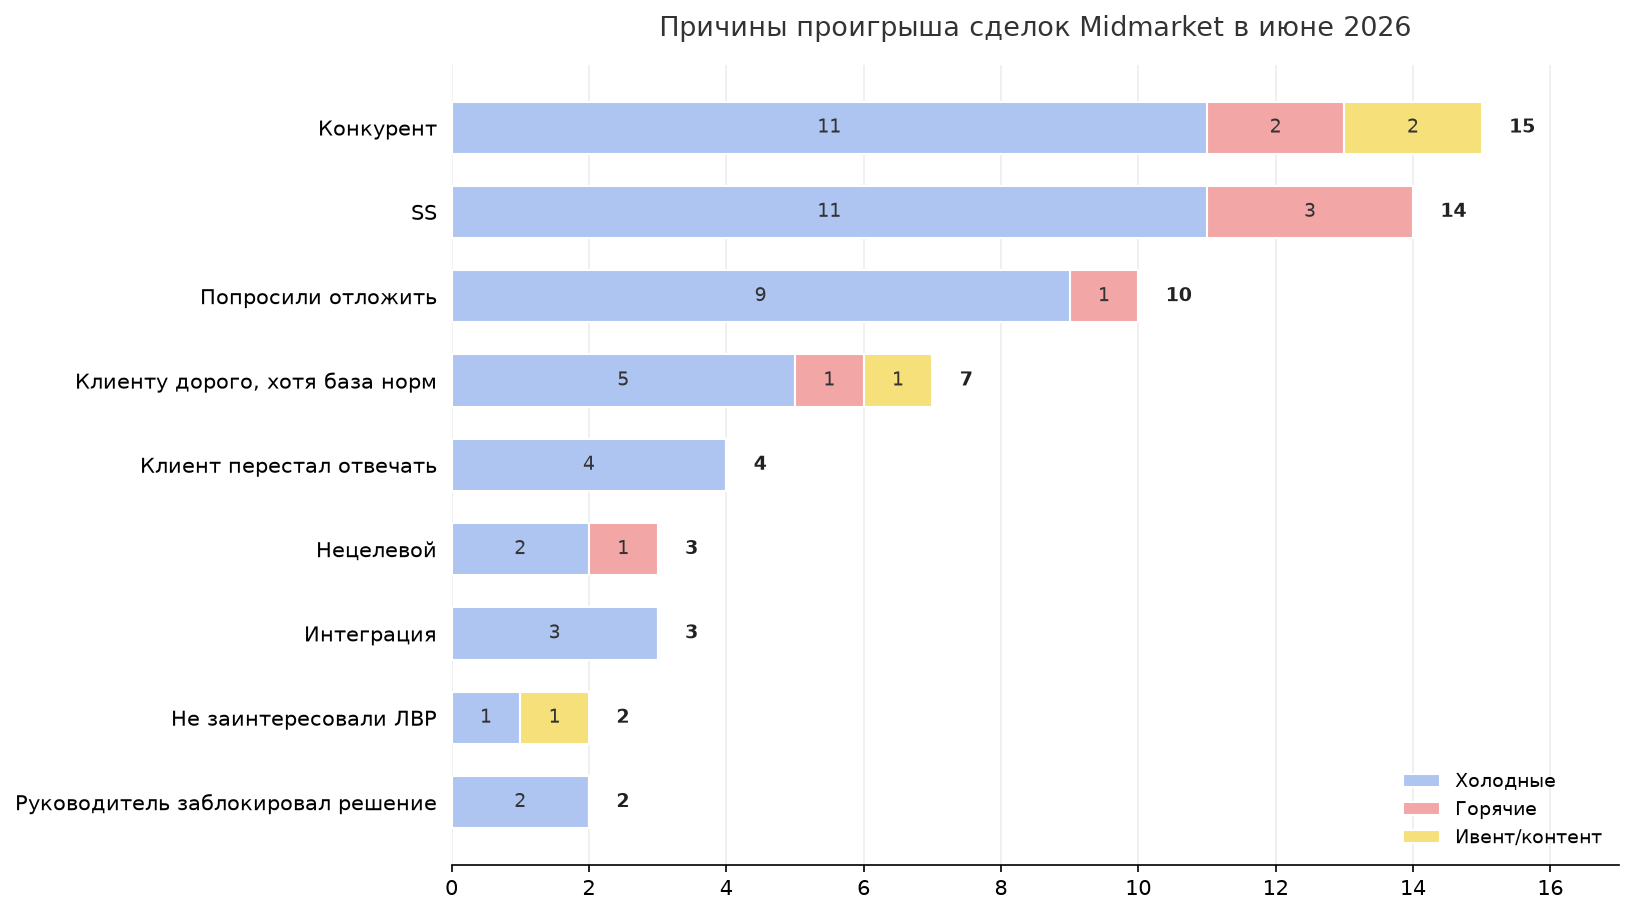
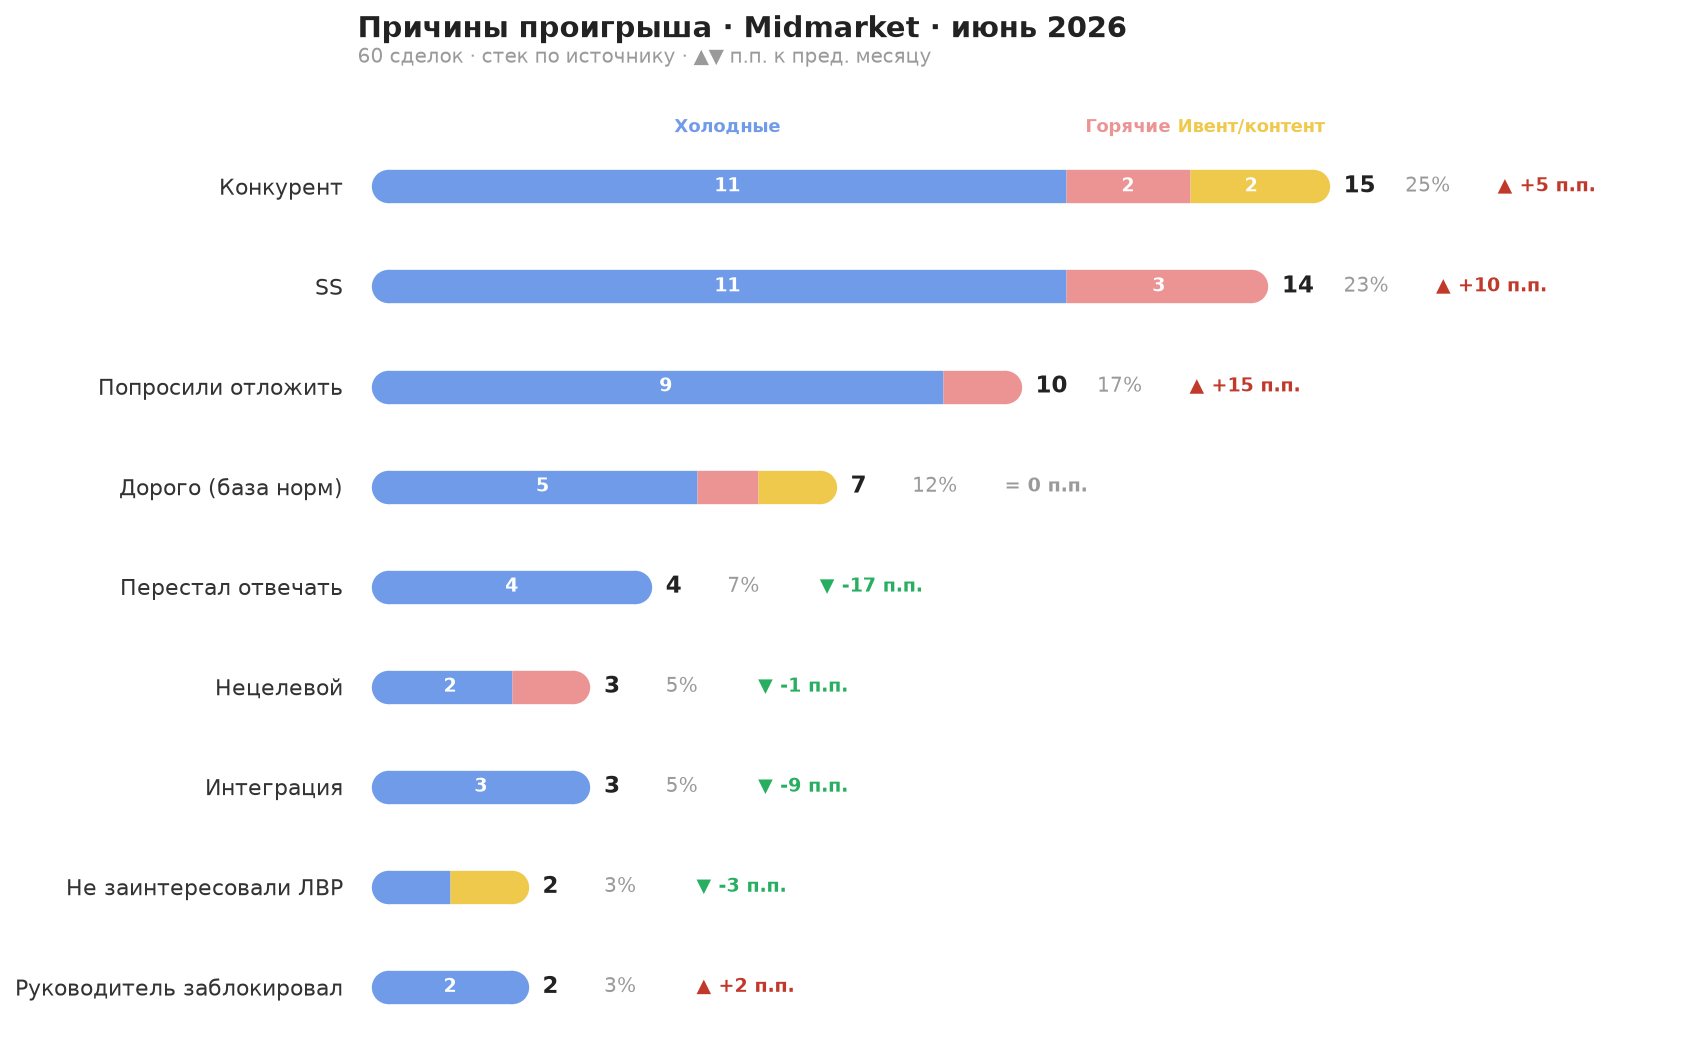
Skill: digest (text template + parameterized chart) for any month
- scripts/digest_chart.py: reusable variant-C chart (source stack + rounded bars +
  pp-delta vs prev month) via CLI args
- scripts/dist_from_classifications.py: build prev-month distribution for the delta
- SKILL.md: '## Дайджест: текст + график' — chart commands + text template/structure
- output/june_2026_digest.md aligned to the template; June chart regenerated via
  the generalized script

https://claude.ai/code/session_01LbKBMorYebTJqJ9qvnVc6G

diff --git a/scripts/digest_chart.py b/scripts/digest_chart.py
@@ -1,0 +1,80 @@
+#!/usr/bin/env python3
+"""
+Дайджест-график (вариант C): горизонтальный стек по источнику, скруглённые бары,
+доля % и дельта к предыдущему месяцу в п.п.
+
+Usage:
+  python scripts/digest_chart.py <classifications.json> <deals_dump.json> \
+         <prev_dist.json|-> "<Заголовок месяца>" <out.png>
+
+- classifications.json: {deal_id: {real_reason, detail, rationale, confidence}}
+- deals_dump.json: сырые сделки get_deals (для источника). Можно "-" — тогда всё Холодные.
+- prev_dist.json: {total, counts} прошлого месяца (scripts/dist_from_classifications.py).
+  "-" — дельта не показывается.
+"""
+import sys, json, collections
+import matplotlib; matplotlib.use("Agg")
+import matplotlib.pyplot as plt
+
+clsf, dump, prev, title, out = sys.argv[1:6]
+cls=json.load(open(clsf))
+det={k:v for k,v in cls.items() if v["real_reason"]!="Не определено"}
+N=len(det)
+cat=collections.Counter(v["real_reason"] for v in det.values())
+
+# источник -> корзина (пусто/прочее -> Холодные, правило заказчика)
+SRC={56:"Холодные",58:"Горячие",63:"Ивент/контент",3977:"Ивент/контент"}
+srcmap={}
+if dump!="-":
+    for d in json.load(open(dump))["data"]:
+        sid=(d.get("custom_fields") or {}).get("af70f9391eeba6e8849e5de4bf671c05dfa80a33")
+        srcmap[d["id"]]=SRC.get(sid,"Холодные")
+ct=collections.defaultdict(lambda: collections.Counter())
+for k,v in det.items(): ct[v["real_reason"]][srcmap.get(int(k),"Холодные")]+=1
+
+prevd=None
+if prev!="-":
+    prevd=json.load(open(prev))
+
+SHORT={"Клиенту дорого, хотя база норм":"Дорого (база норм)",
+       "Руководитель заблокировал решение":"Руководитель заблокировал",
+       "Клиент перестал отвечать":"Перестал отвечать",
+       "Не заинтересовали гендира на первой встрече":"Не заинтересовали гендира"}
+order=["Холодные","Горячие","Ивент/контент"]
+COL={"Холодные":"#6f9be8","Горячие":"#ec9393","Ивент/контент":"#efc94c"}
+cats=sorted(cat, key=lambda c: cat[c])   # asc -> biggest on top
+LW=16
+
+fig,ax=plt.subplots(figsize=(11.5, max(3.2, 0.62*len(cats)+1.6)))
+for i,c in enumerate(cats):
+    segs=[(s,ct[c][s]) for s in order if ct[c][s]>0] or [("Холодные",cat[c])]
+    t=cat[c]
+    ax.plot(0,i,marker="o",markersize=LW,color=COL[segs[0][0]],zorder=2,markeredgewidth=0)
+    ax.plot(t,i,marker="o",markersize=LW,color=COL[segs[-1][0]],zorder=2,markeredgewidth=0)
+    left=0
+    for s,v in segs:
+        ax.plot([left,left+v],[i,i],lw=LW,solid_capstyle="butt",color=COL[s],zorder=3)
+        if v>=2: ax.text(left+v/2,i,str(v),va="center",ha="center",fontsize=9,color="white",fontweight="bold",zorder=4)
+        left+=v
+    jsh=round(100*t/N)
+    ax.text(t+0.5,i,f"{t}",va="center",ha="left",fontsize=11,fontweight="bold",color="#222",zorder=4)
+    ax.text(t+1.5,i,f"{jsh}%",va="center",ha="left",fontsize=9.5,color="#9a9a9a",zorder=4)
+    if prevd:
+        msh=round(100*prevd["counts"].get(c,0)/prevd["total"]) if prevd["total"] else 0
+        d=jsh-msh
+        dt,dc=(f"▲ +{d} п.п.","#c0392b") if d>0 else (f"▼ {d} п.п.","#27ae60") if d<0 else ("= 0 п.п.","#9a9a9a")
+        ax.text(t+3.0,i,dt,va="center",ha="left",fontsize=9,color=dc,fontweight="bold",zorder=4)
+# подписи источников над верхним баром
+top=len(cats)-1; l=0
+for s in order:
+    v=ct[cats[top]][s]
+    if v>0: ax.text(l+v/2,top+0.5,s,ha="center",va="bottom",fontsize=8.5,color=COL[s],fontweight="bold")
+    l+=v
+ax.set_yticks(range(len(cats))); ax.set_yticklabels([SHORT.get(c,c) for c in cats],fontsize=10.5,color="#333")
+ax.set_ylim(-0.6,len(cats)-0.05); ax.set_xlim(-0.5, max(cat.values())+6); ax.set_xticks([]); ax.tick_params(left=False)
+for s in ax.spines.values(): s.set_visible(False)
+ax.set_title(title,fontsize=14,fontweight="bold",color="#222",loc="left",pad=26)
+sub=f"{N} сделок · стек по источнику" + (" · ▲▼ п.п. к пред. месяцу" if prevd else "")
+ax.annotate(sub,(0,1.03),xycoords="axes fraction",fontsize=9.5,color="#9a9a9a")
+plt.tight_layout(); plt.savefig(out,dpi=150,bbox_inches="tight")
+print("saved",out)

diff --git a/scripts/dist_from_classifications.py b/scripts/dist_from_classifications.py
@@ -1,0 +1,10 @@
+#!/usr/bin/env python3
+"""Свести распределение причин по classifications.json -> {total, counts} для дельты.
+Usage: python scripts/dist_from_classifications.py classifications.json dist.json
+Считает только определённые причины (без 'Не определено')."""
+import sys, json, collections
+cls=json.load(open(sys.argv[1]))
+det=[v["real_reason"] for v in cls.values() if v.get("real_reason")!="Не определено"]
+c=collections.Counter(det)
+json.dump({"total":len(det),"counts":dict(c)}, open(sys.argv[2],"w"), ensure_ascii=False, indent=1)
+print(f"{len(det)} deals -> {sys.argv[2]}")

diff --git a/output/june_2026_digest.md b/output/june_2026_digest.md
@@ -1,13 +1,25 @@
-📊 Проигрыши Midmarket · июнь. 61 сделка. Структура сместилась с «клиент пропал» на «просят отложить» и мелкий/нецелевой сегмент. Хорошая новость: клиенты реже отваливаются молча и реже упираются в интеграцию. Риск: почти треть проигрышей — не наша ЦА, это вопрос к квалификации на входе, а не к качеству продаж.
+📊 Дайджест по 61 проигранной в Midmarket сделке в июне (после чистки 7 дублей). По 60 причина определена, 1 — на ручной проверке (проигрыш после встречи).
 
-🥇 Конкурент — 15 (25%, ▲+5 п.п.), 1 место. Чаще всего клиент остаётся на своём или строит сам (4) либо сидит на Премиум Бонусе (2); прочие вендоры — по 1. Нужен battlecard «почему не строить инхаус».
+Главное (динамика к маю):
+• Чаще стали просить отложить общение — «Попросили отложить» 10 (17%), ▲ +15 п.п.: переносят на осень/2027, «не сезон».
+• Реже клиенты пропадают — «Клиент перестал отвечать» 4 (7%), ▼ -17 п.п. (в мае это была причина №1).
+• Реже упираемся в интеграцию / нехватку ресурса на неё — «Интеграция» 3 (5%), ▼ -9 п.п.
+• На 1 месте — конкурент: 15 (25%), ▲ +5 п.п.
 
-⏸ Просят отложить — 10 (17%, ▲+15 п.п.). Это не отказ, а пауза (осень/2027, «не сезон»). Нужен регламент реактивации, а не списание в проигрыш.
+Каким конкурентам проигрываем (15)
+Своя разработка / делают сами — 4 (Chatium+ИИ-агенты, 1С-Фитнес, самописная CRM+amoCRM, «уже реализуют сами»)
+Премиум Бонус — 2
+По 1 — Maxma, RetailCRM, Aurora, Loymax, Remarked, outsource.store, iiko, SaleBot, «другое решение»
 
-🔻 Реже пропадают и реже блокирует интеграция. «Перестал отвечать» — 7% (▼-17 п.п., был №1 в мае), «Интеграция» — 5% (▼-9 п.п.). Из недостающих модулей всплыли MobiFitness (закрытый API) и Киноплан.
+По интеграции (3)
+Нет готового модуля: MobiFitness (закрытый API), Киноплан (бронирование билетов)
+Переезд: переход на новую ERP
 
-🧩 Мелкий/нецелевой — 28% (SS 14, ▲+10 п.п. + Нецелевой 3: франшизы, маркетплейсы, не тот уровень). Ужесточаем квалификацию до встречи.
+Клиенту дорого / бюджет (7)
+Урезали/заморозили бюджеты, «не окупаемся даже на 120к с НДС», нет бюджета на интеграцию, малыши не тянут 150к/мес.
 
-💰 Дорого/бюджет — 7 (12%). Урезали бюджеты, «не окупаемся», малыши не тянут 150к/мес.
+Мелкий / нецелевой сегмент
+SS — 14 (23%), ▲ +10 п.п. · Нецелевой — 3 (франшиза, «не целевые», не тот уровень) · Вместе «не наш сегмент»: 17 (28%)
 
-🎯 что важно: дожимать паузы по регламенту (их стало больше), фильтровать нецелёвку на входе (28% — не наш сегмент), сделать battlecard против «сделаем сами». (SS — self-service/мелкая база; п.п. — процентные пункты доли; 7 дублей исключены, 1 сделка на ручной проверке.)
+Остальное
+Не заинтересовали ЛВР — 2 · Руководитель заблокировал — 2 (собственница не согласовала; тугой ЛПР) · Причина не определена — 1 (сделка 368136 — нужна ручная проверка)

diff --git a/.claude/skills/lost-reasons/SKILL.md b/.claude/skills/lost-reasons/SKILL.md
@@ -79,6 +79,58 @@ description: >-
 Отдай `output/result.xlsx` пользователю (SendUserFile). При наличии эталонной колонки
 «Реальная причина» — посчитай и приведи точность.
 
+## Дайджест: текст + график (для Slack)
+
+Когда просят «дайджест»/«разбери проигрыши» — помимо xlsx готовим текстовую выжимку и
+график.
+
+### График
+```
+python scripts/dist_from_classifications.py <ПРОШЛЫЙ_МЕСЯЦ>_classifications.json data/prev_dist.json
+python scripts/digest_chart.py data/classifications.json data/deals_dump.json \
+       data/prev_dist.json "Причины проигрыша · Midmarket · <месяц>" output/chart.png
+```
+Вариант C: горизонтальный стек по источнику (Холодные/Горячие/Ивент, пусто→Холодные),
+скруглённые бары, доля % + `▲▼ п.п.` к прошлому месяцу. `prev_dist.json` можно `-` (без дельты).
+`Не определено` в бары не идёт. Дельта — в **процентных пунктах доли** (не в штуках), т.к.
+объём месяцев разный.
+
+### Текст (шаблон — держать краткость, вывод+действие)
+Заголовок → «Главное» с динамикой → блоки по причинам. Структура:
+
+```
+📊 Дайджест по {N} проигранным в Midmarket сделкам в {месяц} (после чистки {D} дублей).
+По {M} причина определена, {U} — на ручной проверке.
+
+Главное (динамика к пред. месяцу):
+• {крупнейший рост доли} — «{категория}» {n} ({доля}%), ▲ +{d} п.п.: {суть}.
+• {крупнейшее падение} — «{категория}» {n} ({доля}%), ▼ -{d} п.п.
+• {ещё сдвиг, если есть} …
+• На 1 месте — {топ-категория}: {n} ({доля}%), {▲▼ d} п.п.
+
+Каким конкурентам проигрываем ({n})
+Своя разработка / делают сами — {k} ({перечислить стеки})
+{Повторяющийся вендор} — {k}
+По 1 — {остальные вендоры через запятую}
+
+По интеграции ({n})
+Нет готового модуля: {системы без коннектора}
+Переезд/разработка: {сайт/приложение/1С/ERP}
+
+Клиенту дорого / бюджет ({n})
+{кратко детали: урезали бюджеты, «не окупаемся», не тянут по цене}
+
+Мелкий / нецелевой сегмент
+SS — {n} ({доля}%), {▲▼} п.п. · Нецелевой — {n} ({детали}) · Вместе «не наш сегмент»: {sum} ({доля}%)
+
+Остальное
+Не заинтересовали ЛВР — {n} · Руководитель заблокировал — {n} ({детали}) · Причина не определена — {U}
+```
+Правила стиля: лид — история месяца (что сместилось), а не служебка; «Главное» —
+самые крупные сдвиги долей + лидер; хвост из разовых вендоров сворачивать в «по 1 — …»;
+жаргон (SS, п.п., ЛВР/ЛПР) при необходимости расшифровать сноской. Числа брать из
+`data/classifications.json`, доли — от числа сделок с определённой причиной.
+
 ## Правила классификации (полностью; примеры — docs/methodology.md)
 
 **Базовое:** полю «Причина проигрыша» не верь — оно формальное. Доверяй ему только для
